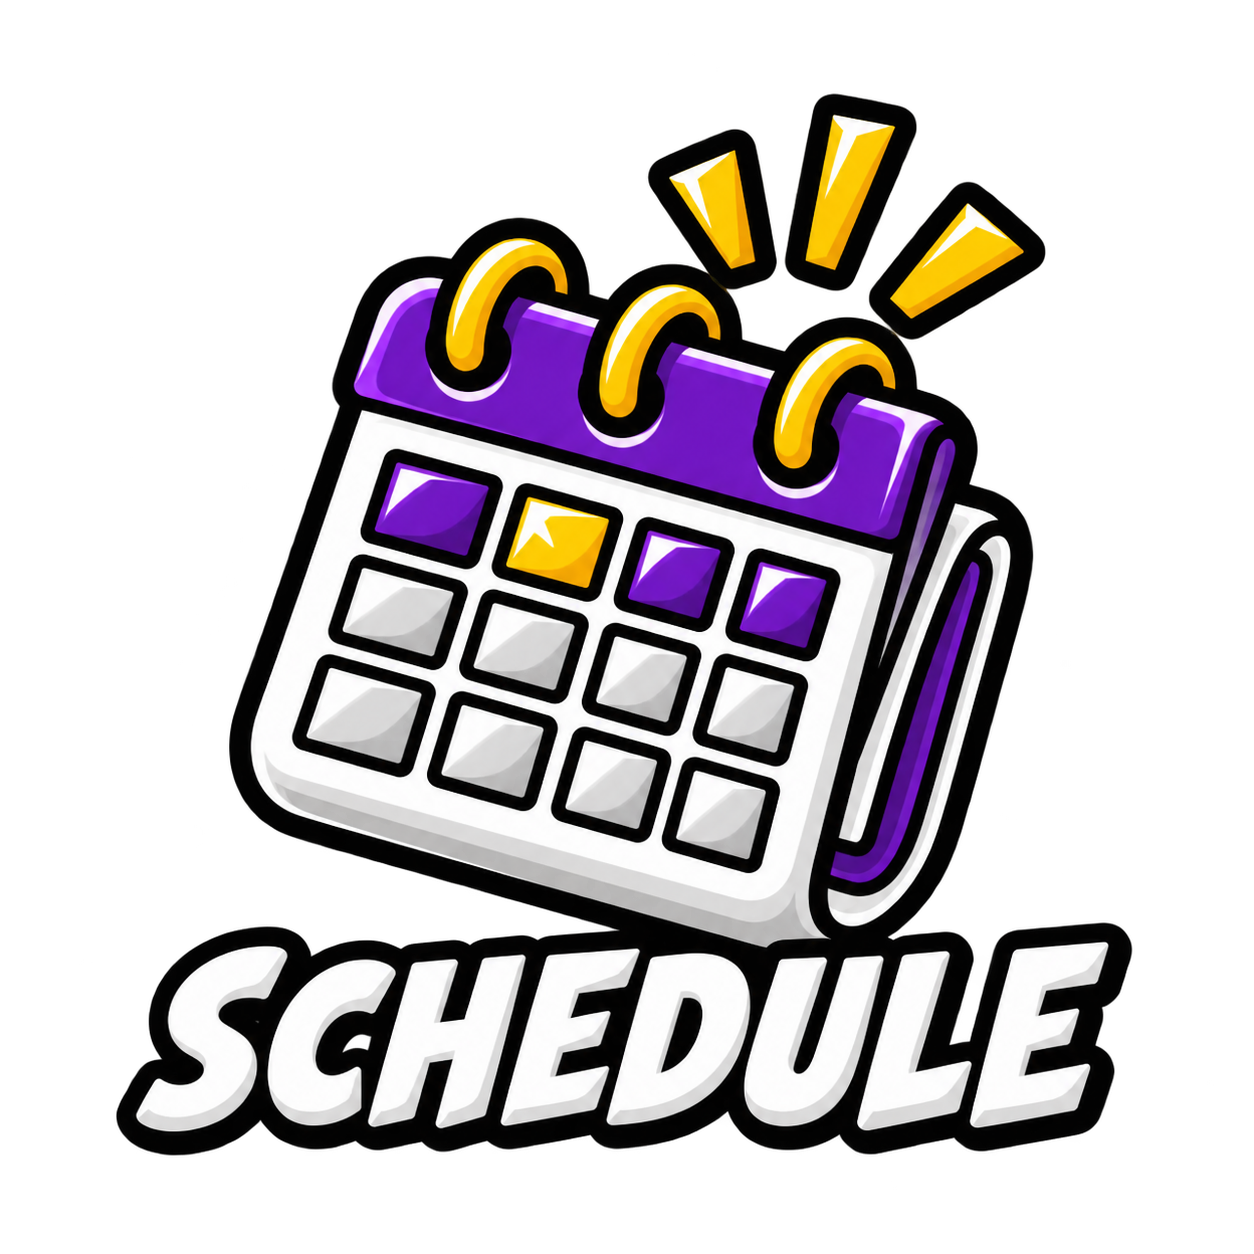
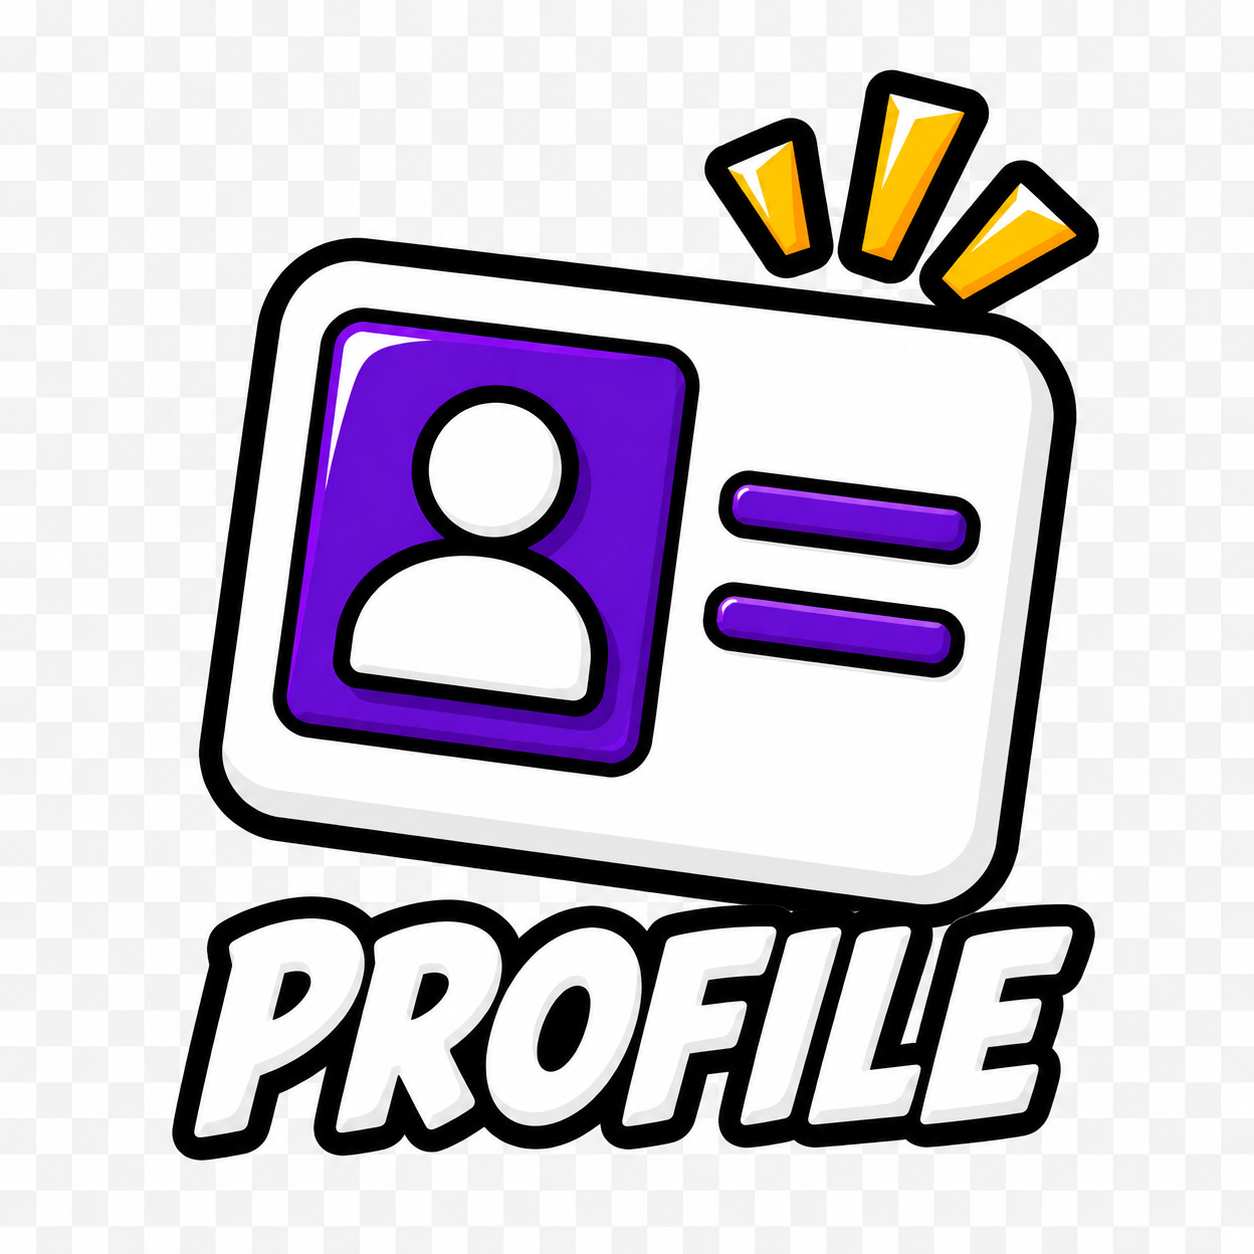
Restore profile app tab

diff --git a/styles.css b/styles.css
@@ -1563,7 +1563,7 @@ body[data-schedule-mode="all"] .schedule-date {
     left: 0;
     z-index: 80;
     display: grid;
-    grid-template-columns: repeat(4, minmax(0, 1fr));
+    grid-template-columns: repeat(5, minmax(0, 1fr));
     min-height: calc(72px + env(safe-area-inset-bottom));
     padding: 4px 8px calc(4px + env(safe-area-inset-bottom));
     border-top: 4px solid #111;
@@ -1591,7 +1591,7 @@ body[data-schedule-mode="all"] .schedule-date {
   .tab-icon {
     position: relative;
     display: block;
-    width: min(68px, 22vw);
+    width: min(64px, 18vw);
     height: 58px;
     background: center / contain no-repeat;
   }
@@ -1600,10 +1600,11 @@ body[data-schedule-mode="all"] .schedule-date {
     transform: translateY(-1px);
   }
 
-  .tab-home { background-image: url("assets/tab-home-v2.png"); }
-  .tab-news { background-image: url("assets/tab-news-v2.png"); }
-  .tab-schedule { background-image: url("assets/tab-schedule-v2.png"); }
-  .tab-clips { background-image: url("assets/tab-clips-v2.png"); }
+  .tab-home { background-image: url("assets/tab-home-v2.png?v=159"); }
+  .tab-news { background-image: url("assets/tab-news-v2.png?v=159"); }
+  .tab-schedule { background-image: url("assets/tab-schedule-v2.png?v=159"); }
+  .tab-profile { background-image: url("assets/tab-profile-v2.png?v=159"); }
+  .tab-clips { background-image: url("assets/tab-clips-v2.png?v=159"); }
 
 }
 

diff --git a/schedule.html b/schedule.html
@@ -11,7 +11,7 @@
     <link rel="manifest" href="manifest.webmanifest">
     <link rel="icon" href="assets/app-icon-v3.jpg" type="image/jpeg">
     <link rel="apple-touch-icon" href="assets/app-icon-v3.jpg">
-    <link rel="stylesheet" href="styles.css?v=158">
+    <link rel="stylesheet" href="styles.css?v=159">
   </head>
   <body class="is-loading" data-schedule-mode="all">
     <div class="page-loader" id="page-loader" aria-live="polite" aria-label="読み込み中">
@@ -85,6 +85,7 @@
       <a href="index.html#top" aria-label="HOME"><span class="tab-icon tab-home"></span></a>
       <a href="news.html" aria-label="NEWS"><span class="tab-icon tab-news"></span></a>
       <a class="is-active" href="schedule.html" aria-label="スケジュール"><span class="tab-icon tab-schedule"></span></a>
+      <a href="index.html#profile" aria-label="PROFILE"><span class="tab-icon tab-profile"></span></a>
       <a href="clips.html" aria-label="CLIPS"><span class="tab-icon tab-clips"></span></a>
     </nav>
 

diff --git a/clips.html b/clips.html
@@ -11,7 +11,7 @@
     <link rel="manifest" href="manifest.webmanifest">
     <link rel="icon" href="assets/app-icon-v3.jpg" type="image/jpeg">
     <link rel="apple-touch-icon" href="assets/app-icon-v3.jpg">
-    <link rel="stylesheet" href="styles.css?v=158">
+    <link rel="stylesheet" href="styles.css?v=159">
   </head>
   <body class="is-loading" data-clips-mode="all">
     <div class="page-loader" id="page-loader" aria-live="polite" aria-label="読み込み中">
@@ -141,6 +141,7 @@
       <a href="index.html#top" aria-label="HOME"><span class="tab-icon tab-home"></span></a>
       <a href="news.html" aria-label="NEWS"><span class="tab-icon tab-news"></span></a>
       <a href="schedule.html" aria-label="スケジュール"><span class="tab-icon tab-schedule"></span></a>
+      <a href="index.html#profile" aria-label="PROFILE"><span class="tab-icon tab-profile"></span></a>
       <a class="is-active" href="clips.html" aria-label="CLIPS"><span class="tab-icon tab-clips"></span></a>
     </nav>
 

diff --git a/news.html b/news.html
@@ -11,7 +11,7 @@
     <link rel="manifest" href="manifest.webmanifest">
     <link rel="icon" href="assets/app-icon-v3.jpg" type="image/jpeg">
     <link rel="apple-touch-icon" href="assets/app-icon-v3.jpg">
-    <link rel="stylesheet" href="styles.css?v=158">
+    <link rel="stylesheet" href="styles.css?v=159">
   </head>
   <body class="is-loading">
     <div class="page-loader" id="page-loader" aria-live="polite" aria-label="読み込み中">
@@ -100,6 +100,7 @@
       <a href="index.html#top" aria-label="HOME"><span class="tab-icon tab-home"></span></a>
       <a class="is-active" href="news.html" aria-label="NEWS"><span class="tab-icon tab-news"></span></a>
       <a href="schedule.html" aria-label="スケジュール"><span class="tab-icon tab-schedule"></span></a>
+      <a href="index.html#profile" aria-label="PROFILE"><span class="tab-icon tab-profile"></span></a>
       <a href="clips.html" aria-label="CLIPS"><span class="tab-icon tab-clips"></span></a>
     </nav>
 

diff --git a/index.html b/index.html
@@ -11,7 +11,7 @@
     <link rel="manifest" href="manifest.webmanifest">
     <link rel="icon" href="assets/app-icon-v3.jpg" type="image/jpeg">
     <link rel="apple-touch-icon" href="assets/app-icon-v3.jpg">
-    <link rel="stylesheet" href="styles.css?v=158">
+    <link rel="stylesheet" href="styles.css?v=159">
   </head>
   <body class="is-loading home-page">
     <div class="page-loader" id="page-loader" aria-live="polite" aria-label="読み込み中">
@@ -197,6 +197,7 @@
       <a class="is-active" href="#top" aria-label="HOME"><span class="tab-icon tab-home"></span></a>
       <a href="news.html" aria-label="NEWS"><span class="tab-icon tab-news"></span></a>
       <a href="schedule.html" aria-label="スケジュール"><span class="tab-icon tab-schedule"></span></a>
+      <a href="#profile" aria-label="PROFILE"><span class="tab-icon tab-profile"></span></a>
       <a href="clips.html" aria-label="CLIPS"><span class="tab-icon tab-clips"></span></a>
     </nav>
 
